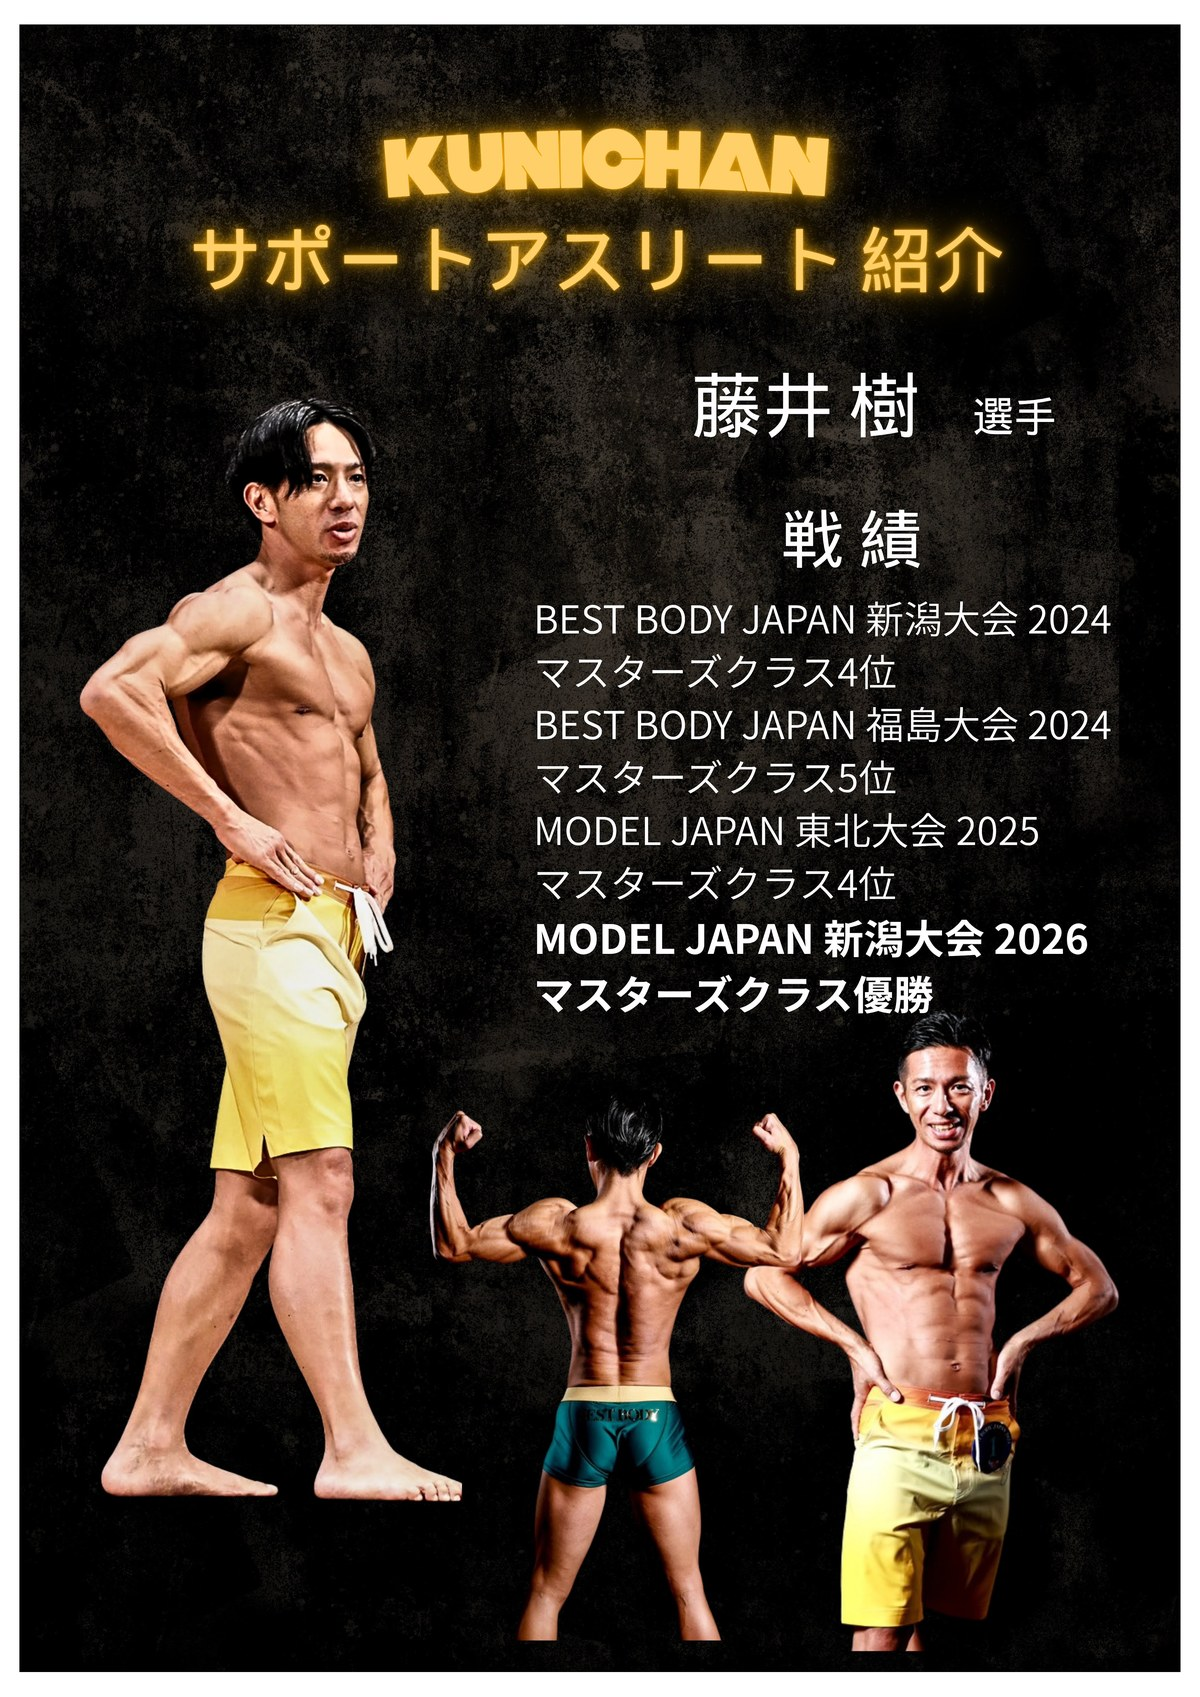
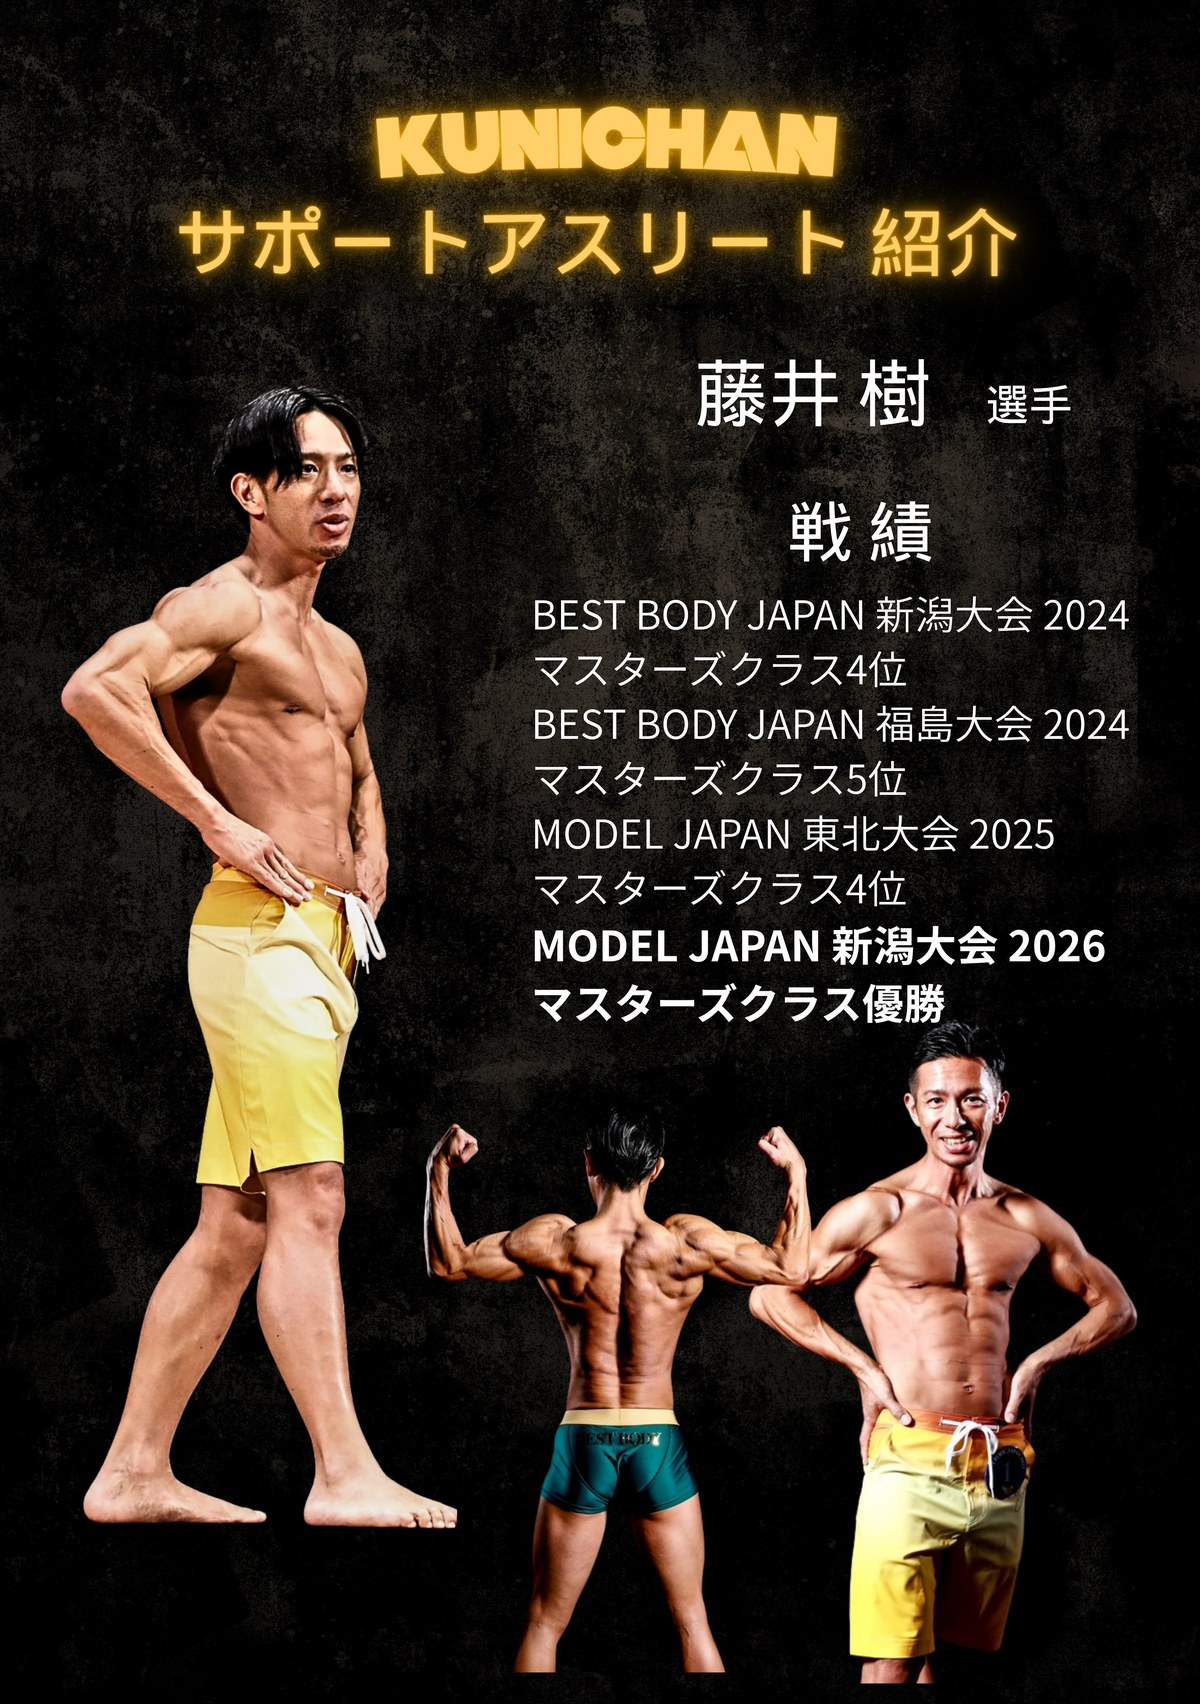
VISTARISE: 藤井選手の紹介画像の白い縁を切り落とし、ほかの選手の画像とそろえる

diff --git a/vistarise/bodymake.html b/vistarise/bodymake.html
@@ -7,7 +7,7 @@
 <div class="card cut"><div class="im"><img src="img/ba-recomp-17pct-v2.jpg" alt="リコンプ実現！体脂肪率-17% ビフォーアフター"></div><h3>5ヶ月で体質改善</h3><p>体重 80.9→69.3kg／体脂肪率 26.0→9.0%。過度な飲酒から断酒。</p><p class="meta">2026年2月入会・期間：5ヶ月</p><p class="note">※効果には個人差があります</p></div>
 <div class="card cut"><div class="im"><img src="img/ba-physique-6pct-v2.jpg" alt="フィジーク優勝へ！体脂肪率6% ビフォーアフター"></div><h3>フィジーク初挑戦</h3><p>体重 84.8→75.0kg／体脂肪率 12.8→6.3%</p><p class="meta">期間：5ヶ月</p><p class="note">※効果には個人差があります</p></div>
 <div class="card cut"><div class="im"><img src="img/ba-recomp-muscle39.jpg" alt="リコンプ実現！筋肉量3.9kg増 ビフォーアフター"></div><h3>リコンプ</h3><p>骨格筋量 27.6→31.5kg／体脂肪率 13.6→10.3%</p><p class="meta">期間：3ヶ月</p><p class="note">※効果には個人差があります</p></div></div></div></section>
-<section><div class="wrap"><div class="en">ACHIEVEMENTS</div><h2>サポート選手の大会実績</h2><div class="g4" id="ach-ph"><div><img src="img/athlete-takahashi-l.jpg" alt="高橋選手 サポートアスリート紹介"></div><div><img src="img/athlete-nakajima-l.jpg" alt="中島選手 サポートアスリート紹介"></div><div><img src="img/athlete-inada-l.jpg" alt="稲田選手 サポートアスリート紹介"></div><div><img src="img/athlete-fujii-l.jpg?v=20261125" alt="藤井選手 サポートアスリート紹介"></div><div><img src="img/athlete-murai-l.jpg" alt="村井選手 サポートアスリート紹介"></div><div><img src="img/athlete-yoshida-l.jpg" alt="吉田選手 サポートアスリート紹介"></div><div><img src="img/athlete-kanda-l.jpg" alt="Y.K選手 サポートアスリート紹介"></div></div><div class="confirm-note" data-n="43"></div><ul class="al"><li>MODEL JAPAN 新潟大会 2025 ミドルクラス グランプリ<br>MODEL JAPAN 首都圏大会 2025 ミドルクラス グランプリ<br>MODEL JAPAN 日本大会 2025 ミドルクラス TOP10<br>2026年BEST BODY JAPAN関東大会 モデルジャパン部門グランプリ<br>2026年 BEST BODY JAPAN新潟大会 モデルジャパン部門グランプリ(二連覇)<br>2026年 BEST BODY JAPAN神奈川・横浜大会 モデルジャパン部門グランプリ<br>2026年 BEST BODY JAPAN J1グランプリ モデルジャパン部門3位<span>吉田選手 <a href="https://www.instagram.com/taichi_fit213/" target="_blank">@taichi_fit213</a></span></li><li>2025 JBBF新潟選手権 初出場でクラス別優勝・オーバーオール優勝<br>2026 JBBF北陸甲信越 -172cm級 準優勝<br>2025 JBBFオールジャパン-172cm級出場<span>Y.K選手 <a href="https://www.instagram.com/u_no_workoutlife/" target="_blank">@u_no_workoutlife</a></span></li><li>2026 JBBF新潟・北陸甲信越 メンズフィジーク180cm超級 2日連続3位<span>中島選手 <a href="https://www.instagram.com/nakaji_s2k/" target="_blank">@nakaji_s2k</a></span></li><li>JBBF新潟選手権2025 men's physique -180cm 4位<br>JBBF新潟選手権2026 men's physique -180cm 3位<span>高橋選手 <a href="https://www.instagram.com/yuuki0624fitness/" target="_blank">@yuuki0624fitness</a></span></li><li>MODEL JAPAN 新潟大会 2025 マスターズクラス3位<br>MODEL JAPAN 新潟大会 2026 マスターズクラス3位<br>MODEL JAPAN 東北大会 2026 マスターズクラス3位<span>稲田選手 <a href="https://www.instagram.com/inakkoo/" target="_blank">@inakkoo</a></span></li><li>BEST BODY JAPAN 新潟大会 2024 マスターズクラス4位<br>BEST BODY JAPAN 福島大会 2024 マスターズクラス5位<br>MODEL JAPAN 東北大会 2025 マスターズクラス4位<br>MODEL JAPAN 新潟大会 2026 マスターズクラスグランプリ<span>藤井選手</span></li><li>BEST BODY JAPAN 新潟大会 2023 フレッシャーズクラス 優勝<br>JBBF新潟選手権2024 men's physique -168cm 優勝<br>JBBF ALL JAPAN2024 men's physique -168cm 出場<br>JBBF新潟選手権2025 men's physique -168cm 準優勝<br>JBBF新潟選手権2026 men's physique -168cm 準優勝<span>村井選手 <a href="https://www.instagram.com/murai0801/" target="_blank">@murai0801</a></span></li></ul><div class="confirm-note" data-n="32"></div><div class="confirm-note" data-n="33"></div></div></section>
+<section><div class="wrap"><div class="en">ACHIEVEMENTS</div><h2>サポート選手の大会実績</h2><div class="g4" id="ach-ph"><div><img src="img/athlete-takahashi-l.jpg" alt="高橋選手 サポートアスリート紹介"></div><div><img src="img/athlete-nakajima-l.jpg" alt="中島選手 サポートアスリート紹介"></div><div><img src="img/athlete-inada-l.jpg" alt="稲田選手 サポートアスリート紹介"></div><div><img src="img/athlete-fujii-l.jpg?v=20261125b" alt="藤井選手 サポートアスリート紹介"></div><div><img src="img/athlete-murai-l.jpg" alt="村井選手 サポートアスリート紹介"></div><div><img src="img/athlete-yoshida-l.jpg" alt="吉田選手 サポートアスリート紹介"></div><div><img src="img/athlete-kanda-l.jpg" alt="Y.K選手 サポートアスリート紹介"></div></div><div class="confirm-note" data-n="43"></div><ul class="al"><li>MODEL JAPAN 新潟大会 2025 ミドルクラス グランプリ<br>MODEL JAPAN 首都圏大会 2025 ミドルクラス グランプリ<br>MODEL JAPAN 日本大会 2025 ミドルクラス TOP10<br>2026年BEST BODY JAPAN関東大会 モデルジャパン部門グランプリ<br>2026年 BEST BODY JAPAN新潟大会 モデルジャパン部門グランプリ(二連覇)<br>2026年 BEST BODY JAPAN神奈川・横浜大会 モデルジャパン部門グランプリ<br>2026年 BEST BODY JAPAN J1グランプリ モデルジャパン部門3位<span>吉田選手 <a href="https://www.instagram.com/taichi_fit213/" target="_blank">@taichi_fit213</a></span></li><li>2025 JBBF新潟選手権 初出場でクラス別優勝・オーバーオール優勝<br>2026 JBBF北陸甲信越 -172cm級 準優勝<br>2025 JBBFオールジャパン-172cm級出場<span>Y.K選手 <a href="https://www.instagram.com/u_no_workoutlife/" target="_blank">@u_no_workoutlife</a></span></li><li>2026 JBBF新潟・北陸甲信越 メンズフィジーク180cm超級 2日連続3位<span>中島選手 <a href="https://www.instagram.com/nakaji_s2k/" target="_blank">@nakaji_s2k</a></span></li><li>JBBF新潟選手権2025 men's physique -180cm 4位<br>JBBF新潟選手権2026 men's physique -180cm 3位<span>高橋選手 <a href="https://www.instagram.com/yuuki0624fitness/" target="_blank">@yuuki0624fitness</a></span></li><li>MODEL JAPAN 新潟大会 2025 マスターズクラス3位<br>MODEL JAPAN 新潟大会 2026 マスターズクラス3位<br>MODEL JAPAN 東北大会 2026 マスターズクラス3位<span>稲田選手 <a href="https://www.instagram.com/inakkoo/" target="_blank">@inakkoo</a></span></li><li>BEST BODY JAPAN 新潟大会 2024 マスターズクラス4位<br>BEST BODY JAPAN 福島大会 2024 マスターズクラス5位<br>MODEL JAPAN 東北大会 2025 マスターズクラス4位<br>MODEL JAPAN 新潟大会 2026 マスターズクラスグランプリ<span>藤井選手</span></li><li>BEST BODY JAPAN 新潟大会 2023 フレッシャーズクラス 優勝<br>JBBF新潟選手権2024 men's physique -168cm 優勝<br>JBBF ALL JAPAN2024 men's physique -168cm 出場<br>JBBF新潟選手権2025 men's physique -168cm 準優勝<br>JBBF新潟選手権2026 men's physique -168cm 準優勝<span>村井選手 <a href="https://www.instagram.com/murai0801/" target="_blank">@murai0801</a></span></li></ul><div class="confirm-note" data-n="32"></div><div class="confirm-note" data-n="33"></div></div></section>
 <section class="dk"><div class="wrap tr"><div class="ph cut"><img src="img/kuni-bbj2023.jpg" alt="くにちゃん BEST BODY JAPAN 2023" style="object-position:50% 20%"><div class="confirm-note on-img" data-n="39"></div></div><div><div class="en">TRAINER RECORD</div><h2>くにちゃんの競技実績</h2><ul class="al"><li>2023年 BEST BODY JAPAN 新潟大会 優勝</li><li>2023年 BEST BODY JAPAN 日本大会出場</li><li>2024年 JBBF メンズフィジーク新潟選手権 176cm以下級 3位</li></ul></div></div></section>
 <footer><div class="fsns"><a class="fig" href="https://www.instagram.com/vistarisegym_niigata/" target="_blank" rel="noopener"><svg class="igi" viewBox="0 0 24 24" width="22" height="22" aria-hidden="true"><rect x="2.5" y="2.5" width="19" height="19" rx="5.5" fill="none" stroke="currentColor" stroke-width="2"/><circle cx="12" cy="12" r="4.3" fill="none" stroke="currentColor" stroke-width="2"/><circle cx="17.4" cy="6.6" r="1.3" fill="currentColor"/></svg><span>Instagram<small>@vistarisegym_niigata</small></span></a><a class="fig" href="https://www.instagram.com/kuni_chan.fit/" target="_blank" rel="noopener"><svg class="igi" viewBox="0 0 24 24" width="22" height="22" aria-hidden="true"><rect x="2.5" y="2.5" width="19" height="19" rx="5.5" fill="none" stroke="currentColor" stroke-width="2"/><circle cx="12" cy="12" r="4.3" fill="none" stroke="currentColor" stroke-width="2"/><circle cx="17.4" cy="6.6" r="1.3" fill="currentColor"/></svg><span>Instagram<small>くにちゃん @kuni_chan.fit</small></span></a><a class="fnote" href="https://note.com/kuni_chanfit1125" target="_blank" rel="noopener"><b>note</b><span>コラム<small>くにちゃんのnote</small></span></a></div><p>ご質問はInstagramのDMからお気軽にどうぞ。→ <a href="https://ig.me/m/vistarisegym_niigata" target="_blank">@vistarisegym_niigata にDMする</a></p><p style="margin-top:10px">© PERSONAL GYM VISTARISE｜新潟市中央区上近江2-10-3 2F</p></footer>
 <a class="spbar" href="https://calendar.google.com/calendar/u/0/appointments/schedules/AcZssZ2UZTPZ3keaYcjivlSsKAIZawz6atsAWFllS9h6P6SBkstXFeXnDx65rXiY0Zh1uTFeupHoDL39" target="_blank" rel="noopener">Webで空き日時を見て予約</a><script src="sp.js?v=20261116l"></script><script src="lb.js"></script><script src="review.js?v=20261125"></script></body></html>
